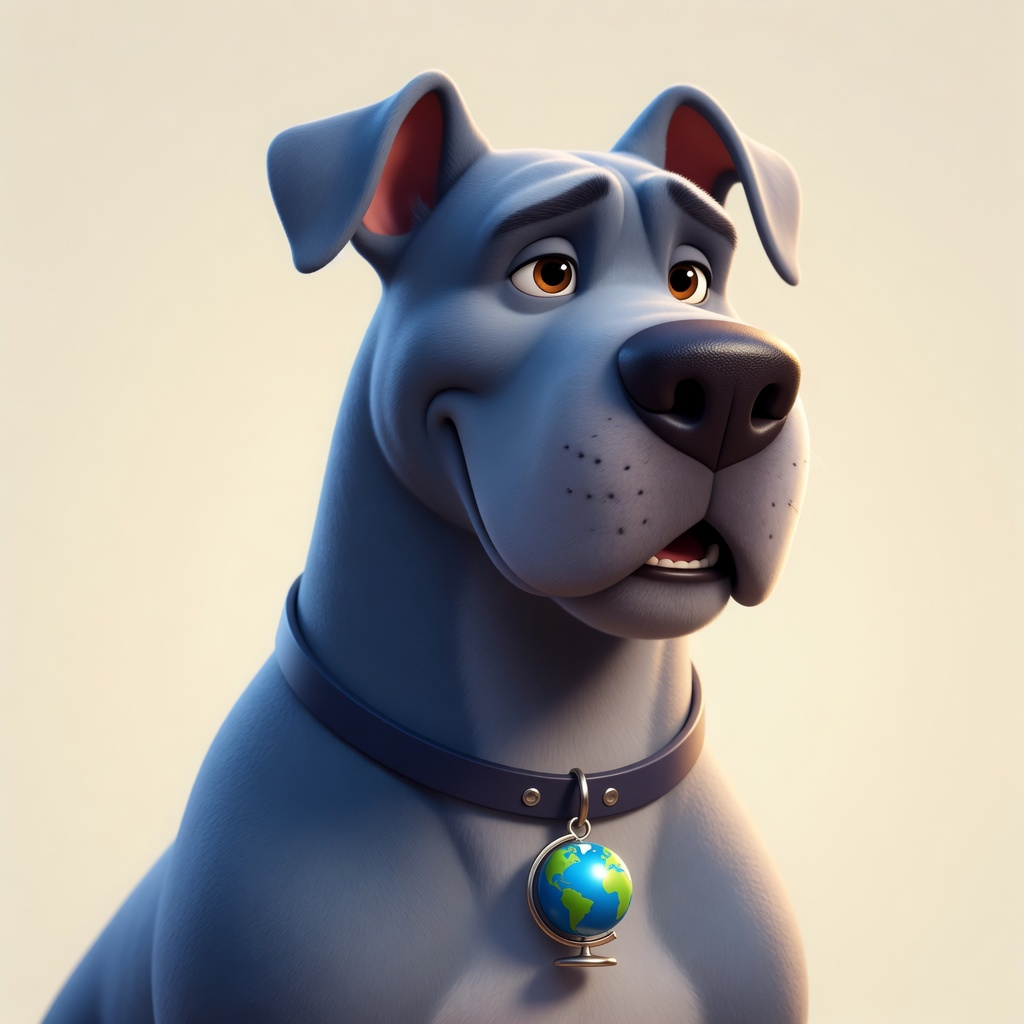
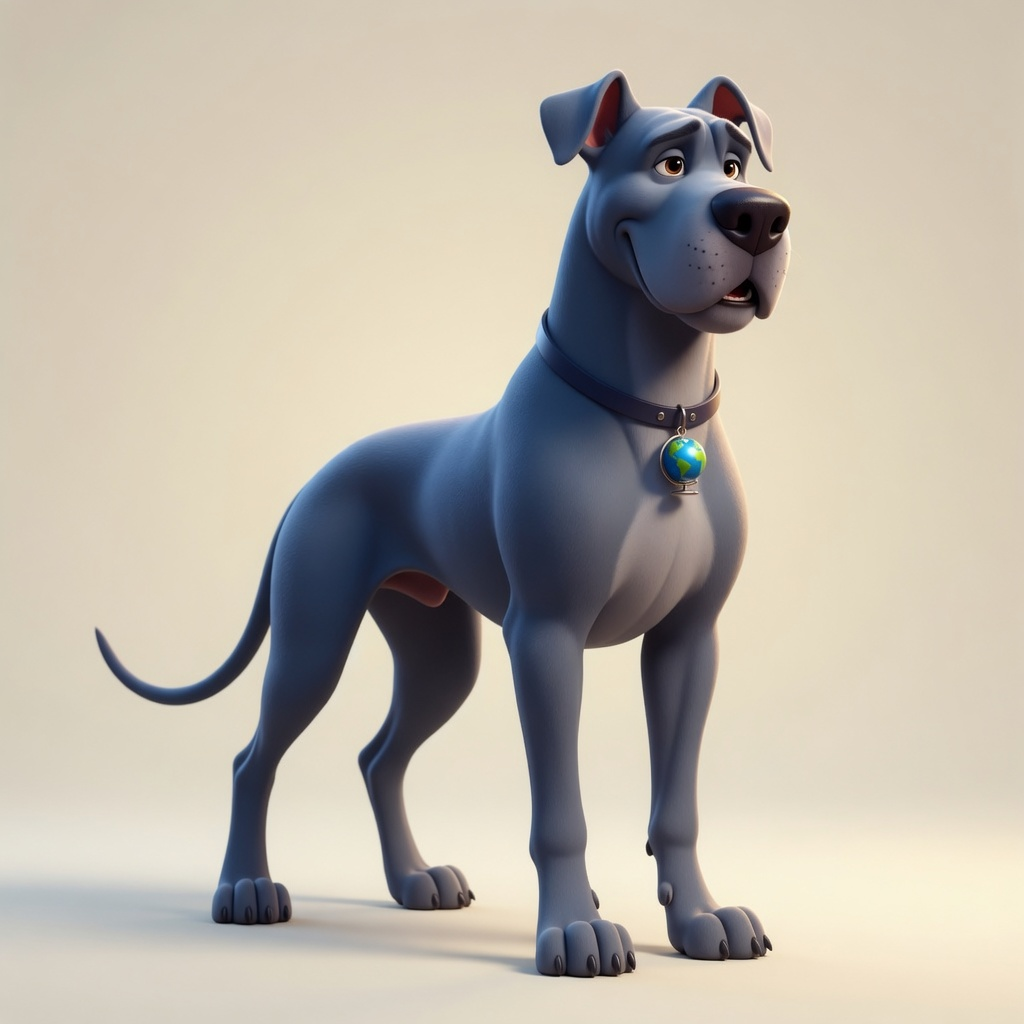
atlas: true full-body brand plate (was bust mislabeled)
Replace bust-as-fullbody with standing 3/4 full Great Dane for mesh
seed, LoRA train, and site evidence. Side plate included.

diff --git a/coins/atlas/index.html b/coins/atlas/index.html
@@ -159,7 +159,7 @@ MODE: Persuade. The dog IS the product. Theme: gentle giant skyline.
           id="meshViewer"
           src="assets/Atlas.glb?v=pixal1"
           alt="3D model of Atlas the Great Dane"
-          poster="assets/atlas-anim-fullbody.jpg"
+          poster="assets/atlas-anim-fullbody.jpg?v=fb1"
           auto-rotate
           rotation-per-second="28deg"
           camera-controls
@@ -169,10 +169,10 @@ MODE: Persuade. The dog IS the product. Theme: gentle giant skyline.
           style="width:100%;height:min(52vh,480px);background:#15110d;"
         ></model-viewer>
       </div>
-      <p class="fine model-hint" id="modelHint">Drag to inspect. Pixal3D mesh of Atlas — fullbody brand seed.</p>
+      <p class="fine model-hint" id="modelHint">Drag to inspect. FULL BODY Pixal3D mesh of Atlas — fullbody brand seed.</p>
       <div class="polaroid" style="max-width:260px;margin:1.25rem auto;">
         <div class="tape tape-top" aria-hidden="true"></div>
-        <img src="assets/atlas-anim-fullbody.jpg" alt="Atlas fullbody seed" width="512" height="512" />
+        <img src="assets/atlas-anim-fullbody.jpg?v=fb1" alt="Atlas fullbody seed" width="512" height="512" />
         <p class="polaroid-caption">mesh seed</p>
       </div>
     </section>
@@ -184,7 +184,7 @@ MODE: Persuade. The dog IS the product. Theme: gentle giant skyline.
       </div>
       <div class="evidence-board" id="evidenceBoard">
         <div class="polaroid ev tilt-l"><div class="tape tape-top" aria-hidden="true"></div><img src="assets/atlas-anim-hero.jpg" alt="Atlas hero" width="400" height="400" /><p class="polaroid-caption">hero</p></div>
-        <div class="polaroid ev tilt-r"><div class="tape tape-top" aria-hidden="true"></div><img src="assets/atlas-anim-fullbody.jpg" alt="Atlas full body" width="400" height="400" /><p class="polaroid-caption">full body</p></div>
+        <div class="polaroid ev tilt-r"><div class="tape tape-top" aria-hidden="true"></div><img src="assets/atlas-anim-fullbody.jpg?v=fb1" alt="Atlas full body" width="400" height="400" /><p class="polaroid-caption">full body</p></div>
         <div class="polaroid ev tilt-l"><div class="tape tape-top" aria-hidden="true"></div><img src="assets/atlas-face-photo.jpg" alt="Atlas identity plate" width="400" height="400" /><p class="polaroid-caption">identity</p></div>
         <div class="polaroid ev tilt-r"><div class="tape tape-top" aria-hidden="true"></div><img src="assets/atlas-meme-sideeye.jpg" alt="Atlas the look" width="400" height="400" /><p class="polaroid-caption">the look</p></div>
         <div class="polaroid ev tilt-l"><div class="tape tape-top" aria-hidden="true"></div><img src="assets/atlas-meme-boss.jpg" alt="Atlas boss mode" width="400" height="400" /><p class="polaroid-caption">boss mode</p></div>
